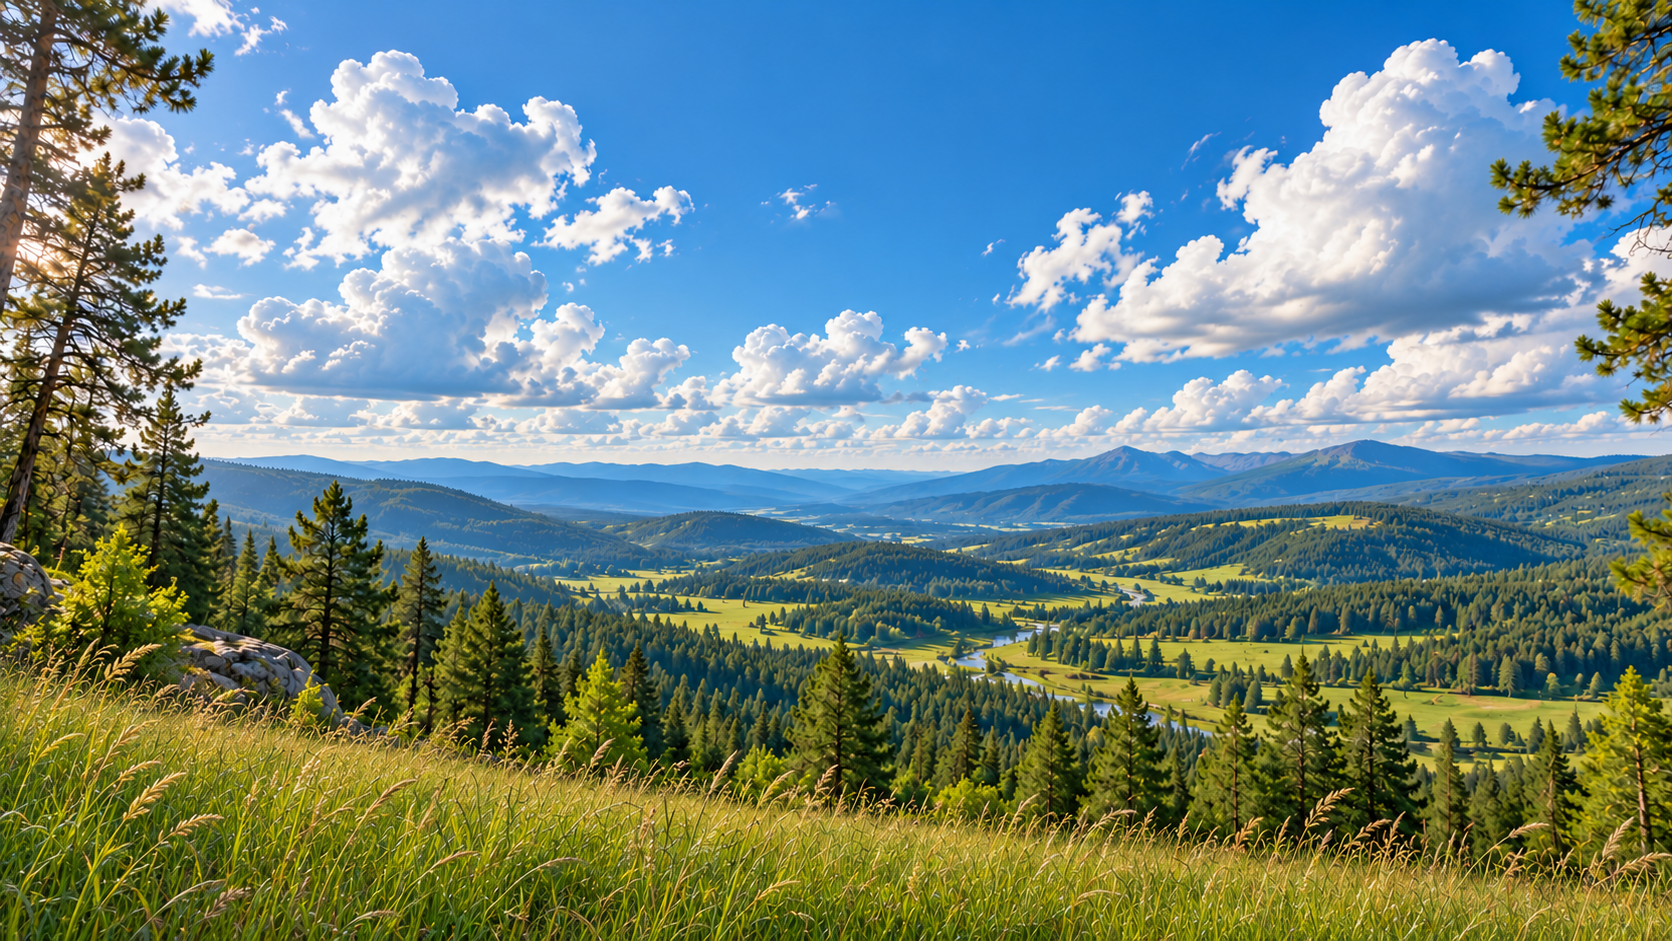
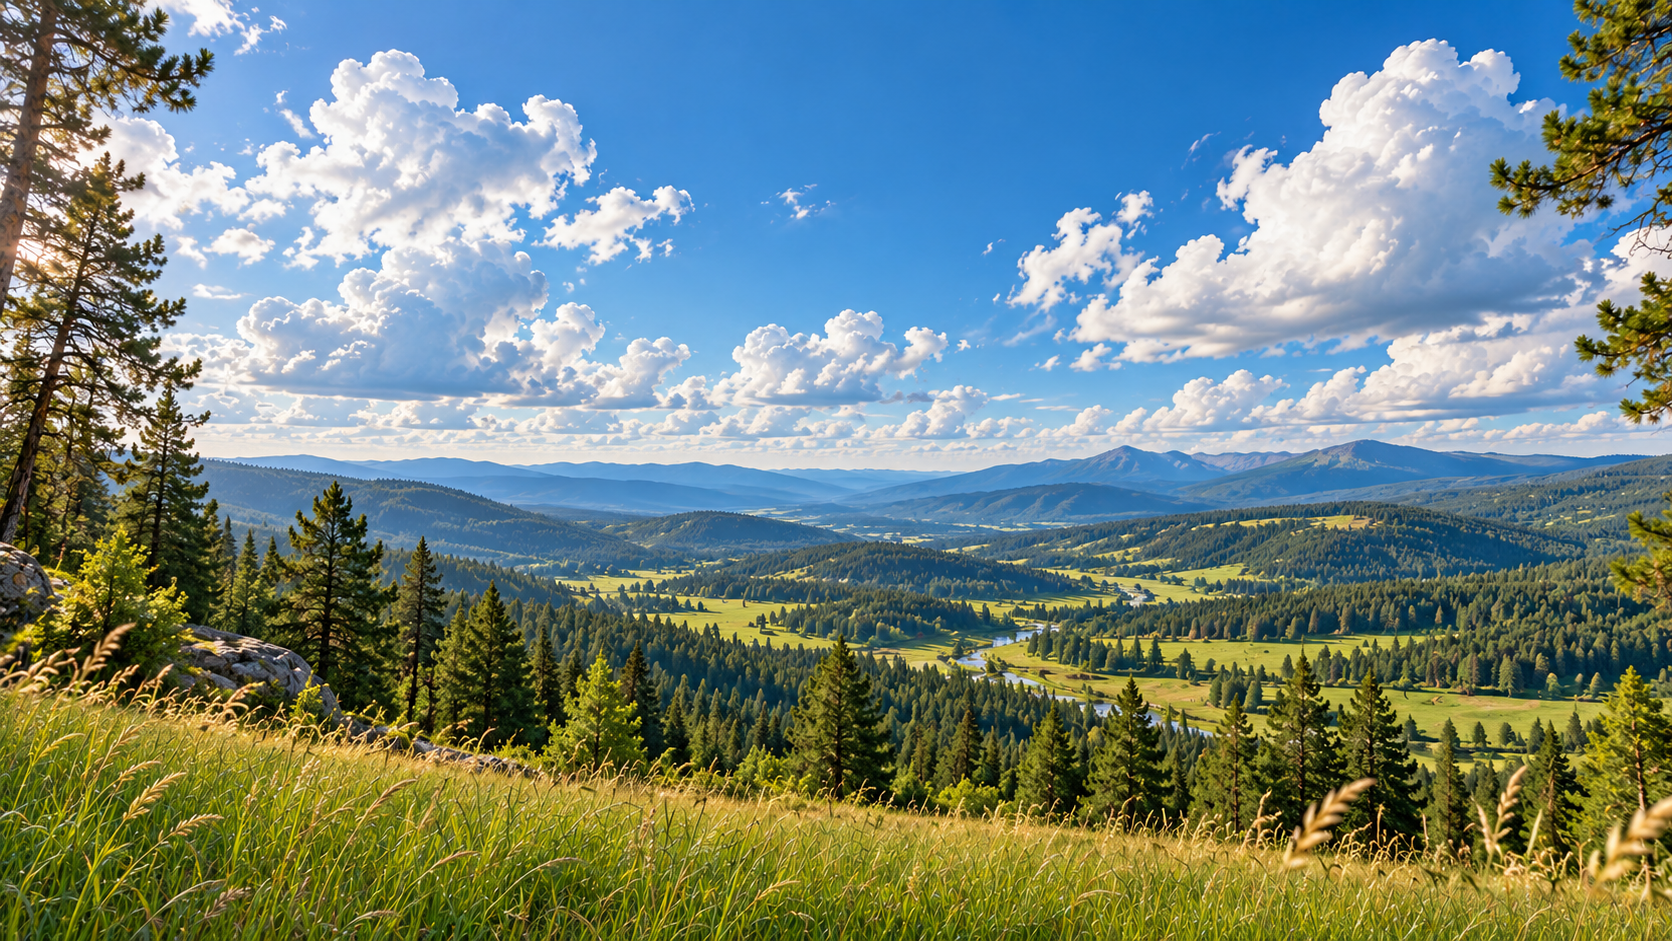
Restore crisp outdoor scenery and add HUNT play prompt
- Improve HUNT foreground grass while preserving the original trees, sky and distant scenery.
- Restore Clay Pigeon's original crisp valley and forest, keeping the improved foreground grass.
- Show a centered golden-yellow PRESS PLAY message in HUNT until the round begins.
- Update artwork provenance, image hashes and user documentation.

Validation: Debug and Release builds passed with no warnings or errors;
740 HUNT checks and 329 Clay Pigeon checks passed. Reviewed rendered scenes
and verified protected scenery pixels match the original assets exactly.

diff --git a/src/ProjectTabletop.App/Projection/SceneCompositor.DuckHuntFlight.cs b/src/ProjectTabletop.App/Projection/SceneCompositor.DuckHuntFlight.cs
@@ -66,7 +66,9 @@ public sealed partial class SceneCompositor
         }
         _flightScoreCaption?.Draw(drawing, _duckHuntFlightScoreText, new Rect(30, 25, 210, 52), aspect);
         _flightBirdCaption?.Draw(drawing, _duckHuntFlightCountText, new Rect(710, 25, 260, 52), aspect);
-        if (state.Phase == DuckHuntFlightPhase.Finished)
+        if (state.Phase == DuckHuntFlightPhase.Ready)
+            _flightCompleteCaption?.Draw(drawing, "PRESS PLAY", new Rect(200, 467, 600, 66), aspect);
+        else if (state.Phase == DuckHuntFlightPhase.Finished)
         {
             _flightCompleteCaption?.Draw(drawing, "ROUND COMPLETE", new Rect(220, 270, 560, 66), aspect);
             _flightResultCaption?.Draw(drawing, _duckHuntFlightResultText, new Rect(240, 342, 520, 45), aspect);

diff --git a/README.md b/README.md
@@ -622,7 +622,7 @@ Sustained camera capture continues to stall, so physical acceptance remains inco
 
 ## Duck Hunt
 
-**Duck Hunt** is on the second menu page and in the laptop's board controls. It opens an arcade welcome scene with the title **Duck Hunt** and three equal-sized, stacked long-press buttons: **TARGET PRACTICE**, **HUNT** and **CLAY PIGEON**. Target Practice opens the saloon shooting gallery described below. Hunt opens a sunny field viewed from grass level, with trees on both sides and a broad sky. Hunt opens with its arrow drawer expanded. Hold the standard **PLAY** button beside **BACK** to begin a ten-bird round; the drawer closes automatically. The central START target is removed, and aiming or making a click sound cannot start or restart the game. Birds launch one at a time from a random left, centre or right field position: left birds head diagonally right, right birds diagonally left, and centre birds choose either side. All birds fly 10% faster than before: the first bird takes about 5.45 seconds along its path, and each successive bird flies another 10% faster than the previous one, whether that earlier bird was hit or escaped. The tenth bird takes about 2.31 seconds along its path. A new round resets the speed. A hit freezes the bird in its photographed pose, blinks it, then removes it and awards 100 points. A golden-hour yellow “100” with a thin black outline rises from the measured hit point and fades, independently of the bird’s blinking. SCORE, BIRDS, ROUND COMPLETE and the final bird count use the same outlined golden-yellow lettering as Clay Pigeon. Escapes earn no points. After ten birds, the score remains and the drawer reopens with **PLAY** for another round. In all three modes, the bottom-left arrow opens **EXIT** and **BACK**, separated by the standard button gap. **BACK** clears the active round and returns to the Duck Hunt welcome screen with its drawer closed. All three play modes use the selected microphone and fresh red-dot camera images. The welcome screen releases gameplay input; click learning remains available independently in the main app. EXIT restores the originating menu page.
+**Duck Hunt** is on the second menu page and in the laptop's board controls. It opens an arcade welcome scene with the title **Duck Hunt** and three equal-sized, stacked long-press buttons: **TARGET PRACTICE**, **HUNT** and **CLAY PIGEON**. Target Practice opens the saloon shooting gallery described below. Hunt opens a sunny field viewed from grass level, with trees on both sides and a broad sky. Hunt opens with its arrow drawer expanded and a centered **PRESS PLAY** message in outlined golden-yellow lettering. Hold the standard **PLAY** button beside **BACK** to begin a ten-bird round; the message clears and the drawer closes automatically. The central START target is removed, and aiming or making a click sound cannot start or restart the game. Birds launch one at a time from a random left, centre or right field position: left birds head diagonally right, right birds diagonally left, and centre birds choose either side. All birds fly 10% faster than before: the first bird takes about 5.45 seconds along its path, and each successive bird flies another 10% faster than the previous one, whether that earlier bird was hit or escaped. The tenth bird takes about 2.31 seconds along its path. A new round resets the speed. A hit freezes the bird in its photographed pose, blinks it, then removes it and awards 100 points. A golden-hour yellow “100” with a thin black outline rises from the measured hit point and fades, independently of the bird’s blinking. SCORE, BIRDS, ROUND COMPLETE and the final bird count use the same outlined golden-yellow lettering as Clay Pigeon. Escapes earn no points. After ten birds, the score remains and the drawer reopens with **PLAY** for another round. In all three modes, the bottom-left arrow opens **EXIT** and **BACK**, separated by the standard button gap. **BACK** clears the active round and returns to the Duck Hunt welcome screen with its drawer closed. All three play modes use the selected microphone and fresh red-dot camera images. The welcome screen releases gameplay input; click learning remains available independently in the main app. EXIT restores the originating menu page.
 
 HUNT birds are now 15% smaller in both dimensions. The detailed feather textures use a shared shoulder-and-wrist rig: a quicker downstroke, folded recovery, feather-tip lag and edge-on foreshortening replace the old rigid wing rotation. Near and far wings beat together with different apparent sizes. The drawn feathers and hit silhouettes use the same transforms, including mirrored flights and the frozen pose after a hit. This reuses the existing two cached images and adds no per-frame geometry allocation.
 

diff --git a/src/ProjectTabletop.App/Assets/DuckHunt/README.md b/src/ProjectTabletop.App/Assets/DuckHunt/README.md
@@ -4,7 +4,7 @@
 
 `arcade-welcome-v1.png` and `hunt-field-v1.png` are original opaque RGB images generated with the built-in image tool on 2026-10-22. The welcome image supplies a colorful wetland, pond and ducks around an open center for the native title and buttons. The field image uses a low grass-level viewpoint, pines on both sides and open sky, inspired by the user's reference. No lettering or controls are baked into either image.
 
-Both files are 1672 × 941 pixels. The prompts requested native 3840 × 2160, but the tool returned these smaller images; they are not native 4K and have not been artificially upscaled. The renderer crops to the physical board aspect instead of stretching the scene and caches each decoded image per graphics device. The field is loaded when Hunt is first opened. Full generation prompts and tool provenance are in [background-prompts.txt](background-prompts.txt).
+Both backgrounds are 1672 × 941 pixels. HUNT's field was revised with the built-in image tool on 2026-11-03 to replace fused-looking foreground grass with separate tapered blades and finer seed heads. After the complete generated image softened the trees, the user authorized merging only its grass into the original meadow. The final RGB asset retains the original sky, trees and distant scenery pixel-for-pixel; a narrow transition follows the meadow slope. Its prompt, merge details and hash are in [hunt-grass-prompts.txt](hunt-grass-prompts.txt). The prompts requested native 3840 × 2160, but the tool returned smaller images; these assets are not native 4K and have not been artificially enlarged to 4K. The renderer crops to the physical board aspect instead of stretching the scene and caches each decoded image per graphics device. The field is loaded when Hunt is first opened. Original generation prompts and tool provenance are in [background-prompts.txt](background-prompts.txt).
 
 ## Clay Pigeon valley and target
 
@@ -17,9 +17,10 @@ ceramic disc with concentric molded rings and a dark rim. Neither contains UI.
 The valley is native 1672 × 941 RGB; the requested 3840 × 2160 was not returned.
 It has not been artificially upscaled. On 2026-11-03, a built-in image-tool
 edit replaced the fused-looking foreground grass with finer individual blades
-and seed heads. The user selected the complete generated image as-is after
-reviewing its slight changes to the distant scenery; no scripted compositing
-or resizing was applied. See [clay-grass-prompts.txt](clay-grass-prompts.txt).
+and seed heads. After the complete generated edit softened the trees, a precise
+grass-only composite restored the original sky, forest, rocks and distant valley
+pixel-for-pixel. A narrow transition follows the foreground meadow slope; neither
+source image was resized. See [clay-grass-prompts.txt](clay-grass-prompts.txt).
 The disc is 1254 × 1254 RGBA, with
 visible alpha bounds `(56, 372)–(1199, 957)`. Authorized alpha-only cleanup
 removed 4,757 stray pixels with alpha at most 6, outside a two-pixel guard
@@ -36,7 +37,7 @@ the renderer; the shared physical ellipse supplies shot geometry.
 
 SHA-256:
 
[3 lines of base64/hex data omitted]
 
 ## Flying mallard
